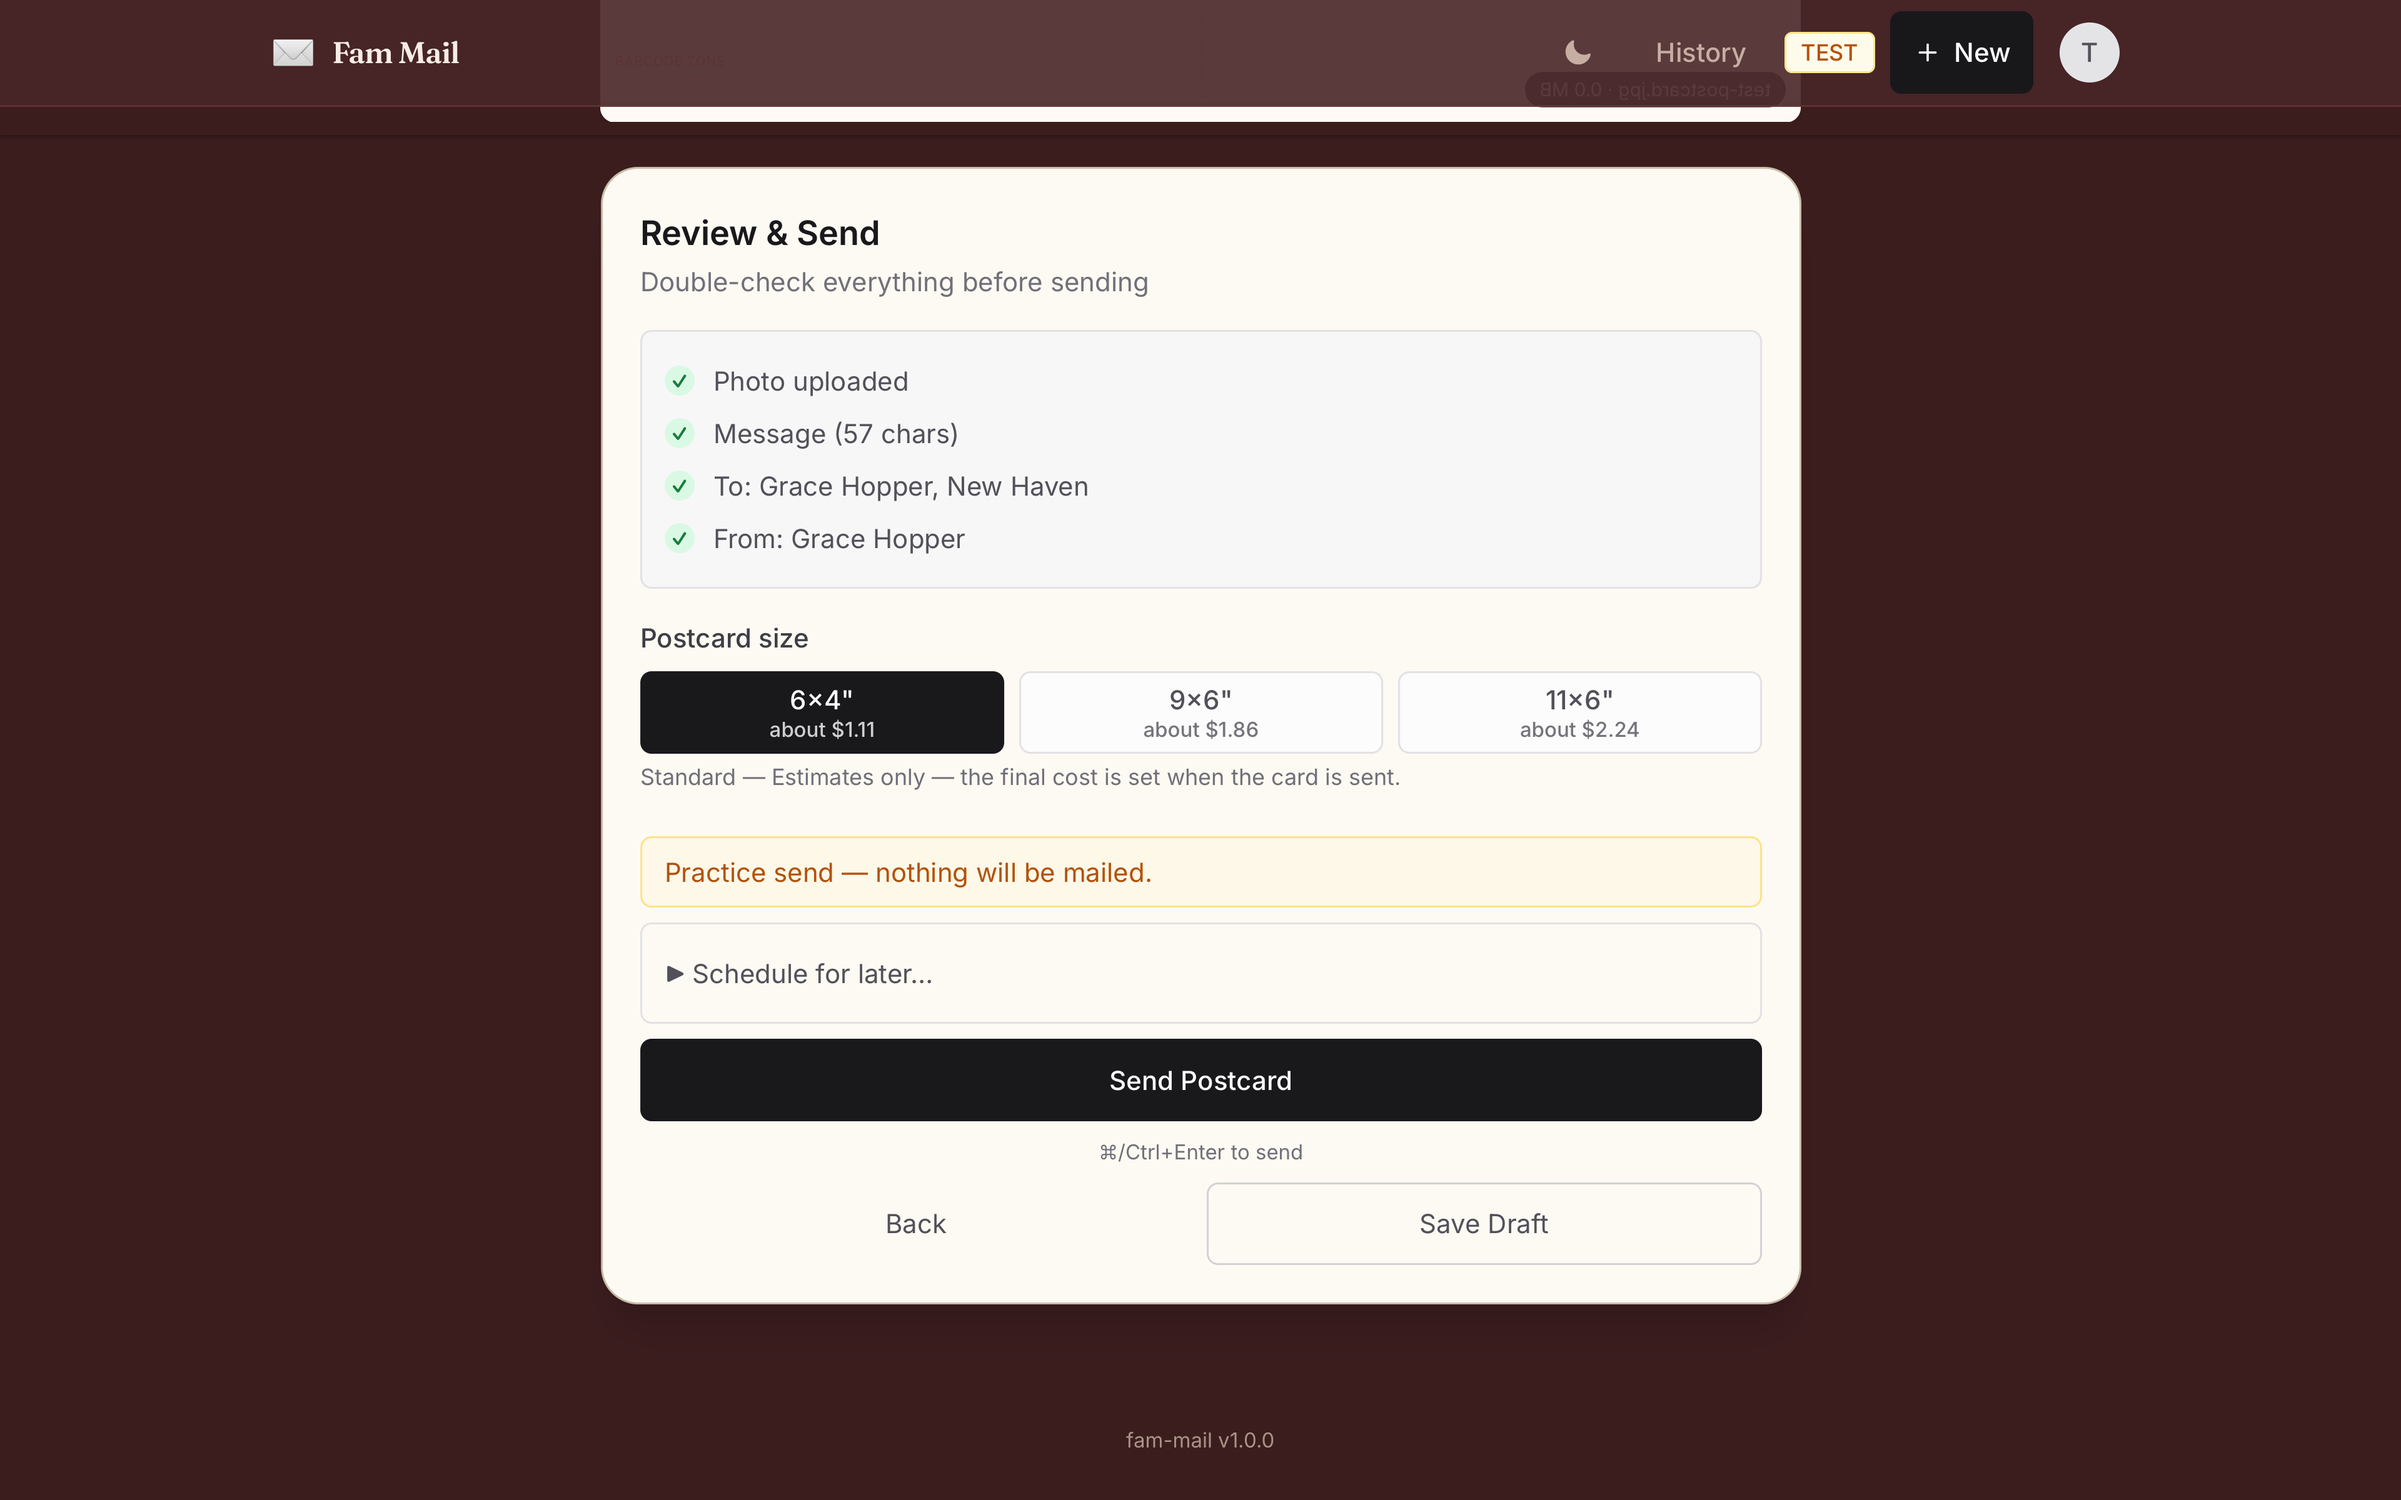
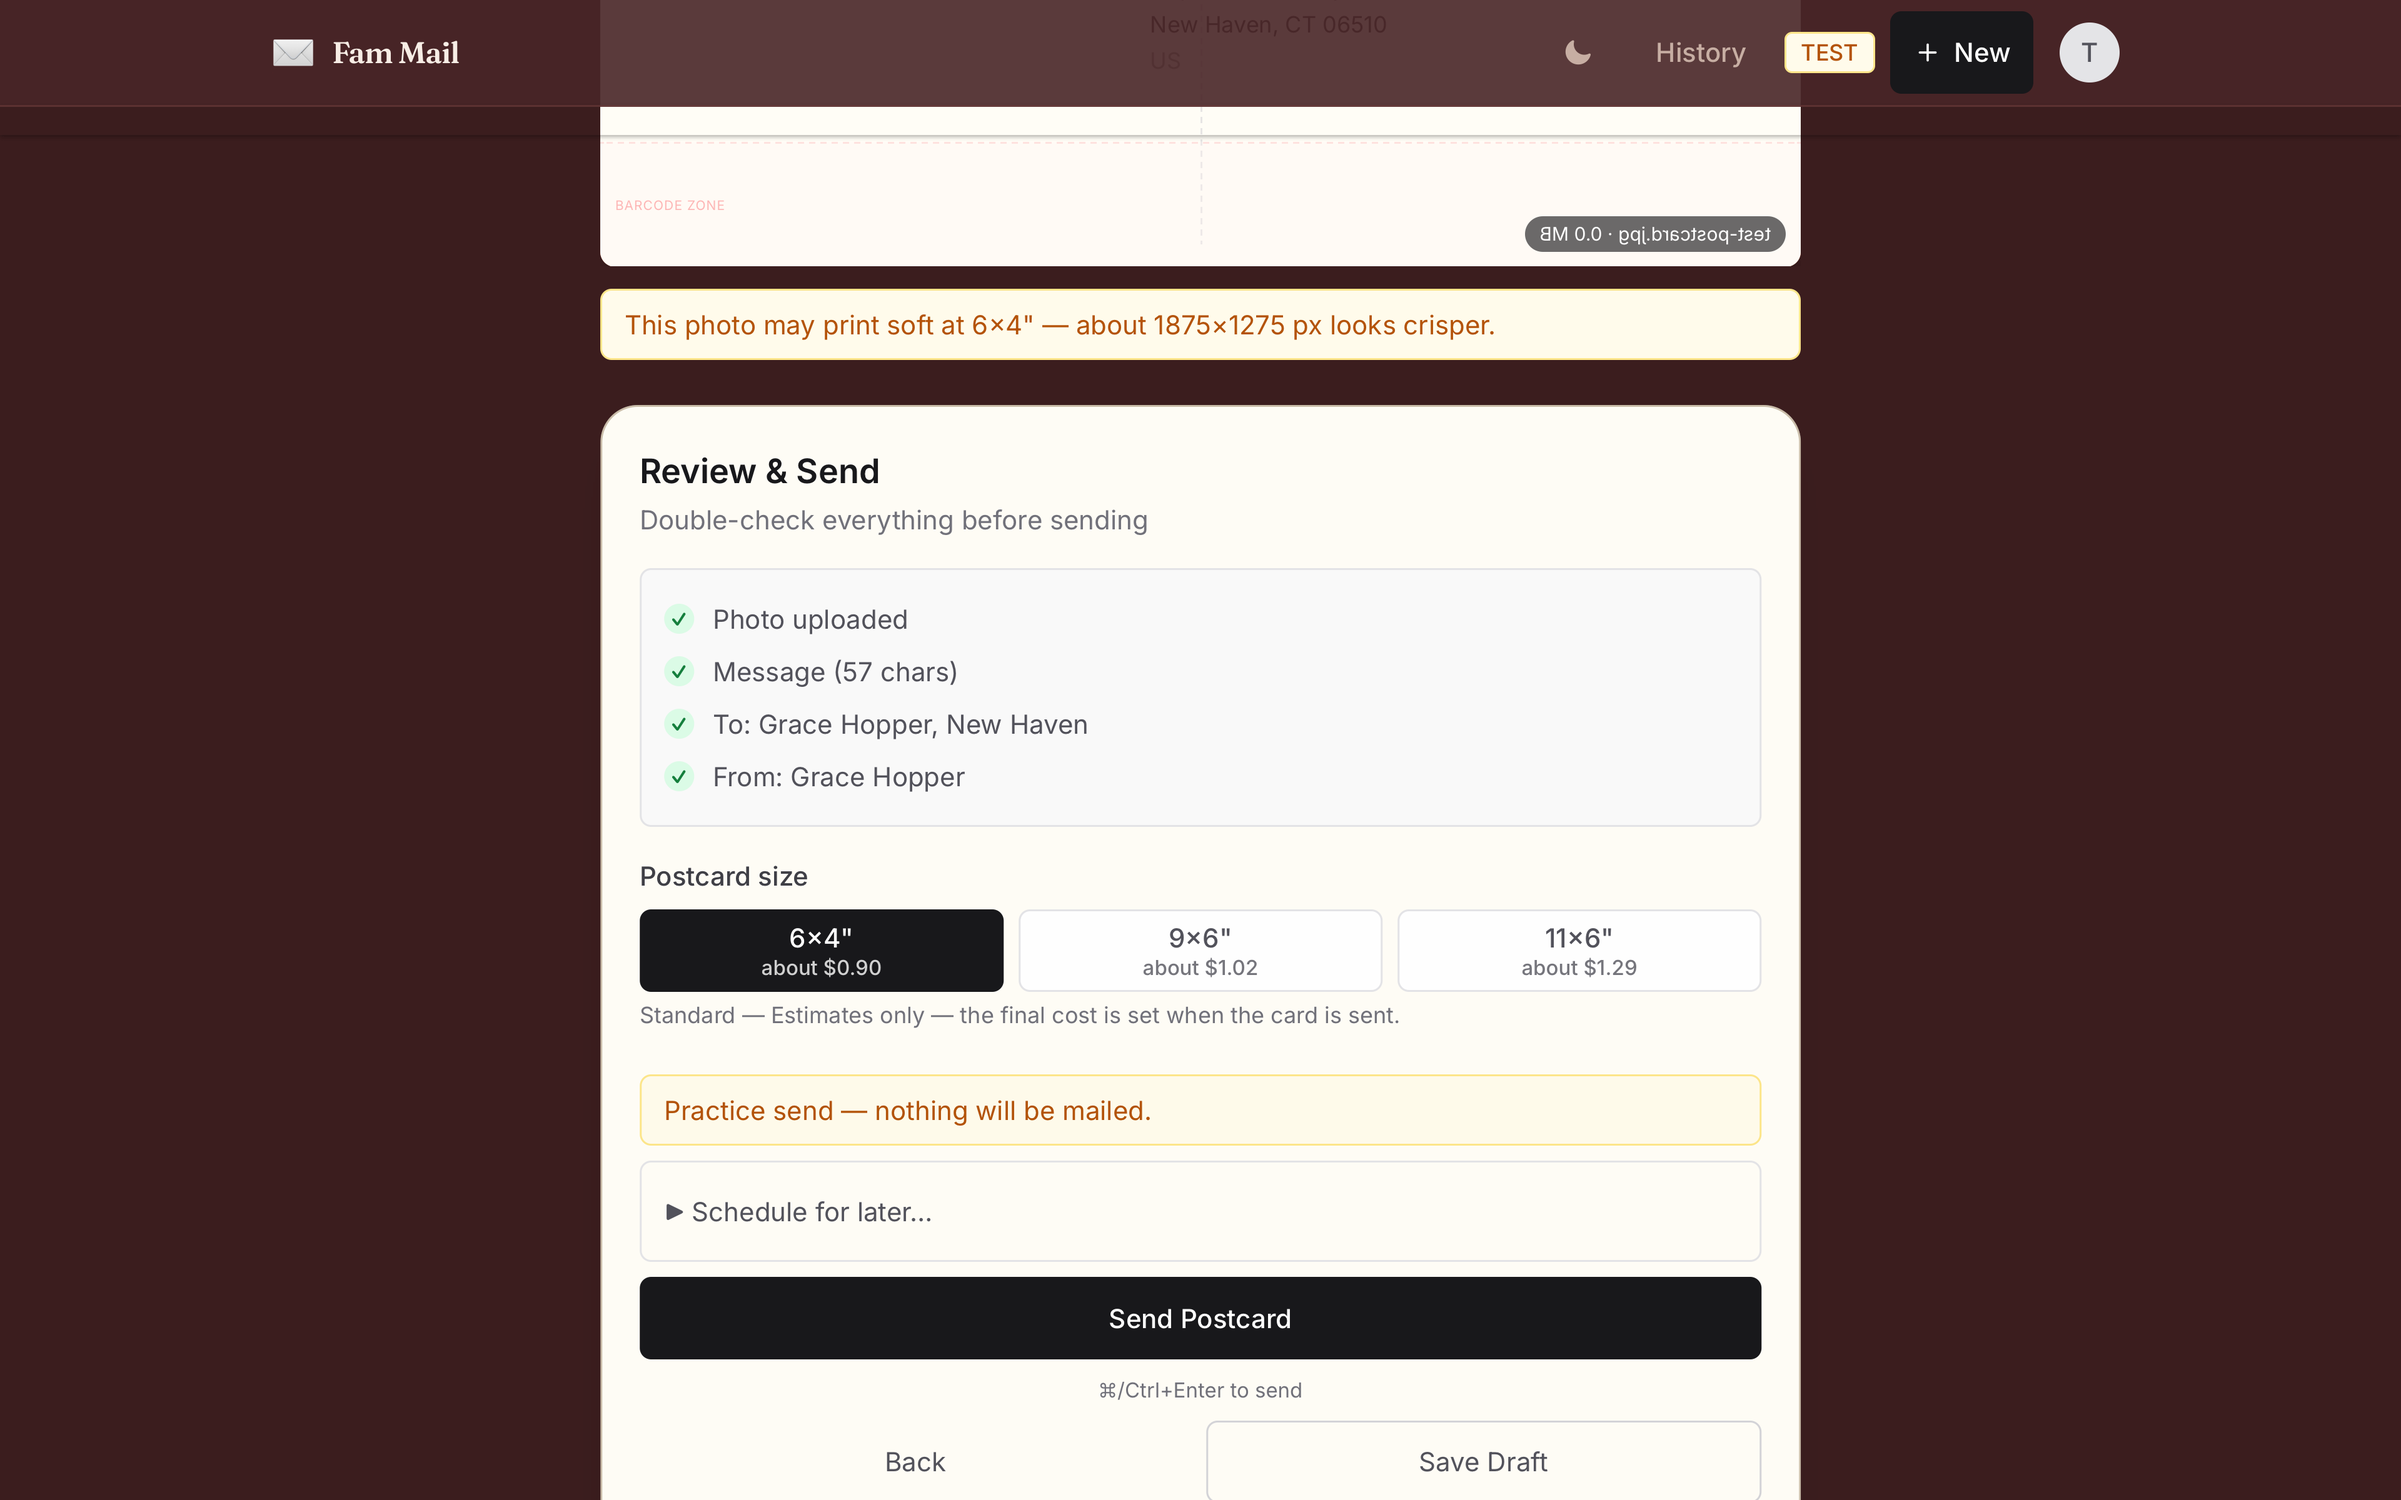
test(capture): D6 mobile capture set — create, review, history (+ mock query fix)
Extends the screenshot spec with 390x844 captures of /create (destination),
the review step (walking the wizard with the existing helpers), and
/history; refreshed PNGs land in docs/screenshots (mobile-create,
mobile-review, mobile-history; desktop set re-rendered with the D3 US
estimates). The shared mock now answers GET /api/postcards?limit=… — the
old '**/api/postcards' glob never matched query strings, so /history fell
through to the real backend and 401'd. Refs #79.

diff --git a/frontend/tests/screenshots/capture.spec.ts b/frontend/tests/screenshots/capture.spec.ts
@@ -69,3 +69,28 @@ test('capture mobile dashboard screenshot', async ({ page }) => {
   await expect(page.getByRole('heading', { name: 'Send something real' })).toBeVisible()
   await page.screenshot({ path: path.join(OUT_DIR, 'mobile-dashboard.png') })
 })
+
+// D6 (#79): the mobile capture set — the full flow (create destination,
+// review, history) alongside the desktop set. Same explicit 390×844
+// viewport as the dashboard capture, so the output is project-independent.
+test('capture mobile create postcard - destination step', async ({ page }) => {
+  await page.setViewportSize({ width: 390, height: 844 })
+  await page.goto('/create')
+  await expect(page.getByRole('heading', { name: 'Where is this going?' })).toBeVisible()
+  await page.screenshot({ path: path.join(OUT_DIR, 'mobile-create.png') })
+})
+
+test('capture mobile review screenshot', async ({ page }) => {
+  await page.setViewportSize({ width: 390, height: 844 })
+  await walkToReview(page)
+  await expect(page.getByRole('heading', { name: 'Review & Send' })).toBeVisible()
+  await page.screenshot({ path: path.join(OUT_DIR, 'mobile-review.png') })
+})
+
+test('capture mobile history screenshot', async ({ page }) => {
+  await page.setViewportSize({ width: 390, height: 844 })
+  await page.goto('/history')
+  await expect(page.getByRole('heading', { name: 'Postcard History' })).toBeVisible()
+  await expect(page.getByText('Grace Hopper')).toBeVisible()
+  await page.screenshot({ path: path.join(OUT_DIR, 'mobile-history.png') })
+})

diff --git a/frontend/tests/e2e/helpers.ts b/frontend/tests/e2e/helpers.ts
@@ -81,7 +81,10 @@ export async function setupMockApi(page: Page) {
     })
   )
 
-  await page.route('**/api/postcards', route => {
+  // Regex (not a glob): the history list requests /api/postcards?limit=…,
+  // and a '**/api/postcards' glob does not match URLs with query strings —
+  // the request would fall through to the real backend and 401 the page.
+  await page.route(/\/api\/postcards(\?.*)?$/, route => {
     // History list (GET) — a shaped card so /history renders content
     if (route.request().method() === 'GET') {
       return route.fulfill({
